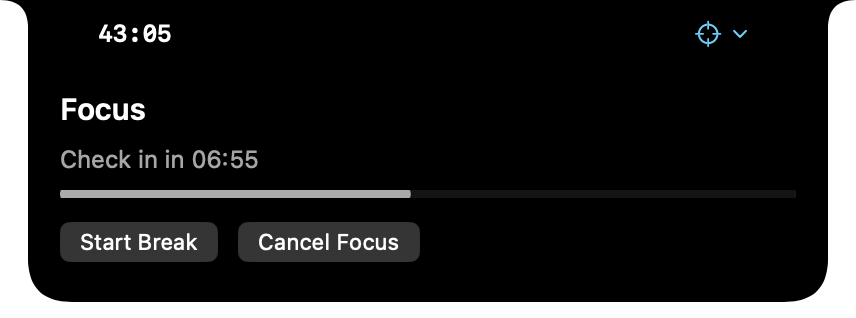
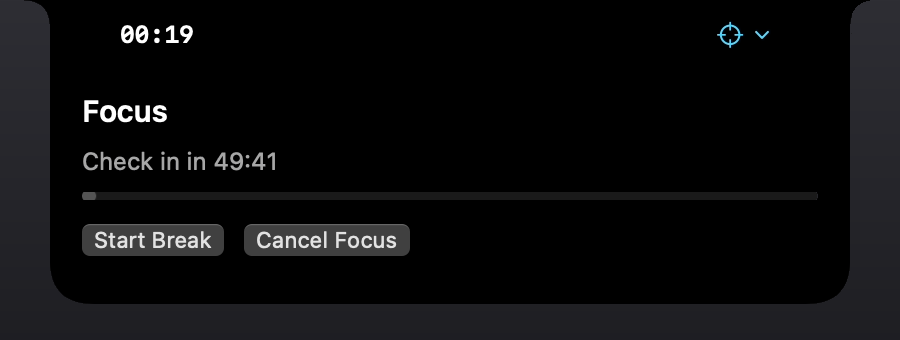
Refresh README graphics for macOS 27
Replaces the hero, hover recording, and Settings screenshot, and adds a
recording of the island folding while << shows hidden menu bar icons.
Recordings capture only the menu bar and island windows, with the flat
capture backdrop replaced by a neutral gradient so no app windows or
wallpaper show. The README describes the narrowed trailing wing.

diff --git a/README.md b/README.md
@@ -10,7 +10,7 @@ A small, native macOS focus timer that lives in the menu bar and grows out of th
 
 <p align="center"><img src="docs/assets/hero.png" alt="Focus Island expanded around the notch" width="640"></p>
 
-<p align="center"><img src="docs/assets/hover.gif" alt="A real hover recording: the compact notch shell expands into controls" width="640"></p>
+<p align="center"><img src="docs/assets/hover.gif" alt="Hovering the notch expands the island into its controls" width="640"></p>
 
 ## What it does
 
@@ -19,9 +19,12 @@ A small, native macOS focus timer that lives in the menu bar and grows out of th
 - Uses one shared session model for the menu bar, notch island, Settings, and notifications.
 - Expands from the notch into a small control surface on hover. The camera cutout stays clear, and the shell folds back after the pointer leaves.
 - Keeps the notch black; the menu and Settings follow macOS light or dark appearance.
+- On macOS 27, gets out of the way of the menu bar: hidden status icons revealed by `<<` draw over the island, and with optional Accessibility access the island folds into the notch while they show and narrows its right wing to fit beside `<<`, moving the icon next to the clock only when there is no room.
 - Uses native notifications when allowed; declining permission never prevents the timer from working.
 
-<p align="center"><img src="docs/assets/settings.png" alt="Settings with durations, notifications, and automatic updates" width="500"></p>
+<p align="center"><img src="docs/assets/fold.gif" alt="On macOS 27, clicking the menu bar's << button folds the island into the notch while hidden icons show, and clicking >> brings it back" width="640"></p>
+
+<p align="center"><img src="docs/assets/settings.png" alt="Settings with durations, reminders, menu bar access, and automatic updates" width="500"></p>
 
 ## Install
 
